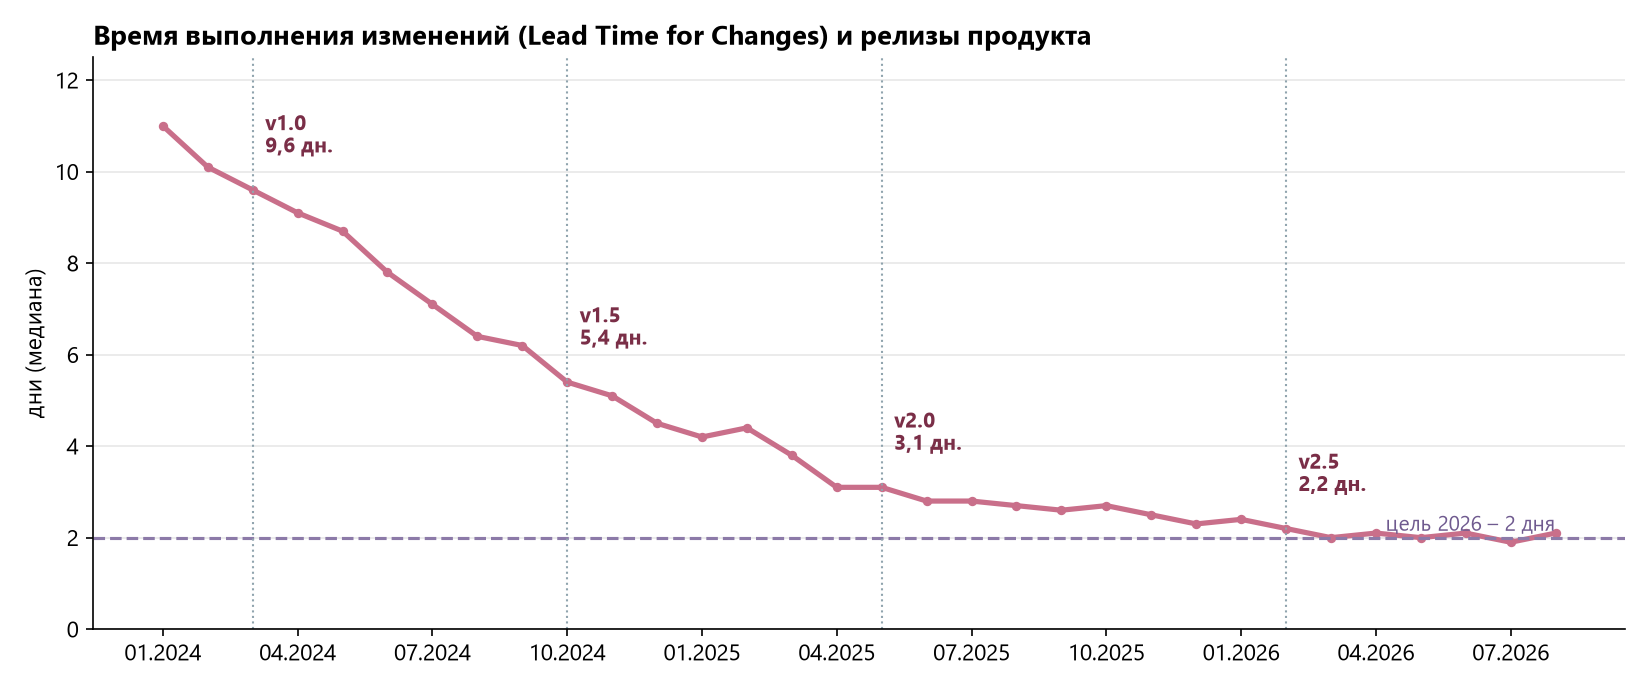
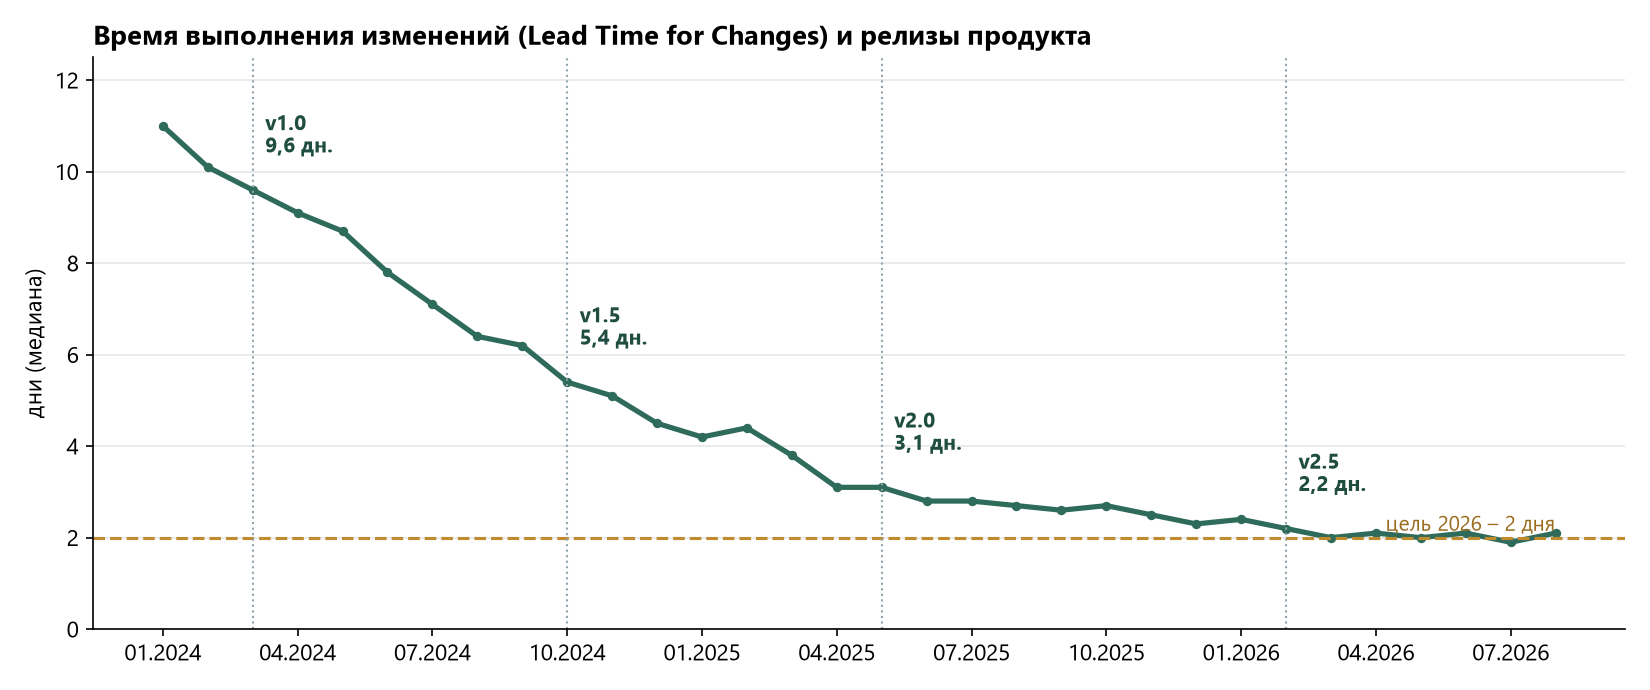
Новое оформление: палитра «шалфей и янтарь», боковая навигация, шрифт Nunito

diff --git a/docs/assets/extra.css b/docs/assets/extra.css
@@ -1,30 +1,32 @@
 :root, [data-md-color-scheme="default"] {
-  --md-primary-fg-color: #c96f8a;
-  --md-primary-fg-color--light: #e3a3b5;
-  --md-primary-fg-color--dark: #a8566f;
+  --md-primary-fg-color: #2f6b5a;
+  --md-primary-fg-color--light: #5e9484;
+  --md-primary-fg-color--dark: #1f4d40;
   --md-primary-bg-color: #ffffff;
-  --md-accent-fg-color: #b04a6b;
-  --md-default-bg-color: #fffafb;
-  --md-typeset-a-color: #a8466a;
-  --md-code-bg-color: #fbeff3;
+  --md-accent-fg-color: #c08a2e;
+  --md-default-bg-color: #fbfaf6;
+  --md-typeset-a-color: #2f7a64;
+  --md-code-bg-color: #eef3ef;
 }
 [data-md-color-scheme="slate"] {
-  --md-primary-fg-color: #8f4d63;
-  --md-accent-fg-color: #f0a6bd;
-  --md-typeset-a-color: #f0a6bd;
-  --md-default-bg-color: #221a1e;
+  --md-primary-fg-color: #24463c;
+  --md-accent-fg-color: #e0b25a;
+  --md-typeset-a-color: #8fd0b8;
+  --md-default-bg-color: #182420;
 }
-.md-typeset table:not([class]) th { background: #f6dde5; color: #5a2a3a; }
-[data-md-color-scheme="slate"] .md-typeset table:not([class]) th { background: #4a2a36; color: #f7dfe7; }
-.md-typeset .admonition, .md-typeset details { border-color: #d98ba2; }
-.md-typeset .admonition.success > .admonition-title, .md-typeset .admonition.info > .admonition-title { background: #fbe9ef; }
-.md-typeset .admonition.success > .admonition-title::before, .md-typeset .admonition.info > .admonition-title::before { background-color: #c96f8a; }
-.md-typeset .grid.cards > ul > li { border-color: #f0cfd9; background: #fff; }
-.md-typeset .grid.cards > ul > li:hover { border-color: #c96f8a; box-shadow: 0 4px 14px rgba(201,111,138,.18); }
-.md-typeset .grid.cards .twemoji svg, .md-typeset .grid.cards svg { fill: #c96f8a; }
-.md-tabs { background: #d88aa1; }
-.md-typeset .admonition.success, .md-typeset .admonition.info { border-color: #d98ba2 !important; }
-.md-typeset .admonition.success > .admonition-title, .md-typeset .admonition.info > .admonition-title { background-color: #fbe9ef !important; }
-.md-footer { background-color: #f3d9e1; color: #5a2a3a; }
-.md-footer-meta { background-color: #ecc7d3; }
-.md-footer-meta, .md-footer-meta a, .md-footer__link, .md-footer__title, .md-copyright, .md-copyright a { color: #5a2a3a !important; }
+.md-header { box-shadow: none; border-bottom: 3px solid #c08a2e; }
+.md-typeset h1 { font-weight: 800; color: #1f4d40; letter-spacing: -.01em; }
+[data-md-color-scheme="slate"] .md-typeset h1 { color: #cfe8df; }
+.md-typeset h2 { border-left: 4px solid #c08a2e; padding-left: .5em; }
+.md-typeset table:not([class]) { border-radius: 8px; overflow: hidden; }
+.md-typeset table:not([class]) th { background: #2f6b5a; color: #fff; }
+.md-typeset table:not([class]) tr:nth-child(even) td { background: #f1f5f1; }
+[data-md-color-scheme="slate"] .md-typeset table:not([class]) tr:nth-child(even) td { background: #20302b; }
+.md-typeset .admonition, .md-typeset details { border-color: #c08a2e !important; border-radius: 8px; }
+.md-typeset .admonition > .admonition-title { background-color: #f7efdf !important; }
+.md-typeset .admonition > .admonition-title::before { background-color: #c08a2e !important; }
+.md-typeset .grid.cards > ul > li { border-radius: 10px; border-color: #d8e4dc; background: #fff; }
+.md-typeset .grid.cards > ul > li:hover { border-color: #2f6b5a; box-shadow: 0 6px 18px rgba(47,107,90,.15); }
+.md-typeset .grid.cards svg { fill: #c08a2e; }
+.md-footer { background-color: #1f4d40; }
+.md-footer-meta { background-color: #183d33; }

diff --git a/charts.py b/charts.py
@@ -13,11 +13,11 @@ rng = np.random.default_rng(5)
 lt = np.round(lt + rng.normal(0, 0.25, 32) * np.linspace(1, .4, 32), 1)
 for i, (_, v) in rel.items(): lt[i] = v
 fig, ax = plt.subplots(figsize=(11, 4.6), dpi=150)
-ax.plot(range(32), lt, color="#c96f8a", lw=2.5, marker="o", ms=3.5)
-ax.axhline(2, color="#8c7aa8", ls="--", lw=1.5); ax.text(31, 2.15, "цель 2026 – 2 дня", color="#6f5a8f", ha="right", fontsize=10)
+ax.plot(range(32), lt, color="#2f6b5a", lw=2.5, marker="o", ms=3.5)
+ax.axhline(2, color="#c08a2e", ls="--", lw=1.5); ax.text(31, 2.15, "цель 2026 – 2 дня", color="#9a6b1d", ha="right", fontsize=10)
 for i, (name, v) in rel.items():
     ax.axvline(i, color="#90a4ae", ls=":", lw=1)
-    ax.annotate(f"{name}\n{str(v).replace('.', ',')} дн.", (i, v), xytext=(6, 18), textcoords="offset points", fontsize=10, fontweight="bold", color="#7a2e47")
+    ax.annotate(f"{name}\n{str(v).replace('.', ',')} дн.", (i, v), xytext=(6, 18), textcoords="offset points", fontsize=10, fontweight="bold", color="#1f4d40")
 ax.set_xticks(range(0, 32, 3)); ax.set_xticklabels([months[i] for i in range(0, 32, 3)])
 ax.set_ylabel("дни (медиана)"); ax.set_ylim(0, 12.5); ax.grid(axis="y", alpha=.3)
 ax.set_title("Время выполнения изменений (Lead Time for Changes) и релизы продукта", loc="left", fontweight="bold")
@@ -25,10 +25,10 @@ for s in ("top", "right"): ax.spines[s].set_visible(False)
 fig.tight_layout(); fig.savefig(out + r"\lead_time.png"); plt.close(fig)
 
 years = ["2024", "2025", "2026*"]
-data = [("Частота развёртываний, в неделю", [3, 9, 17], "#d98ba2"),
-        ("Доля неудачных изменений, %", [21, 14, 9], "#b5557a"),
-        ("Время восстановления (MTTR), ч", [6.5, 3.2, 1.4], "#e3aabb"),
-        ("Команд-клиентов на платформе", [18, 46, 83], "#9c5b7a")]
+data = [("Частота развёртываний, в неделю", [3, 9, 17], "#2f6b5a"),
+        ("Доля неудачных изменений, %", [21, 14, 9], "#c0694e"),
+        ("Время восстановления (MTTR), ч", [6.5, 3.2, 1.4], "#c08a2e"),
+        ("Команд-клиентов на платформе", [18, 46, 83], "#5e9484")]
 fig, axs = plt.subplots(1, 4, figsize=(13, 3.6), dpi=150)
 for ax, (t, v, c) in zip(axs, data):
     b = ax.bar(years, v, color=c, width=.6)
